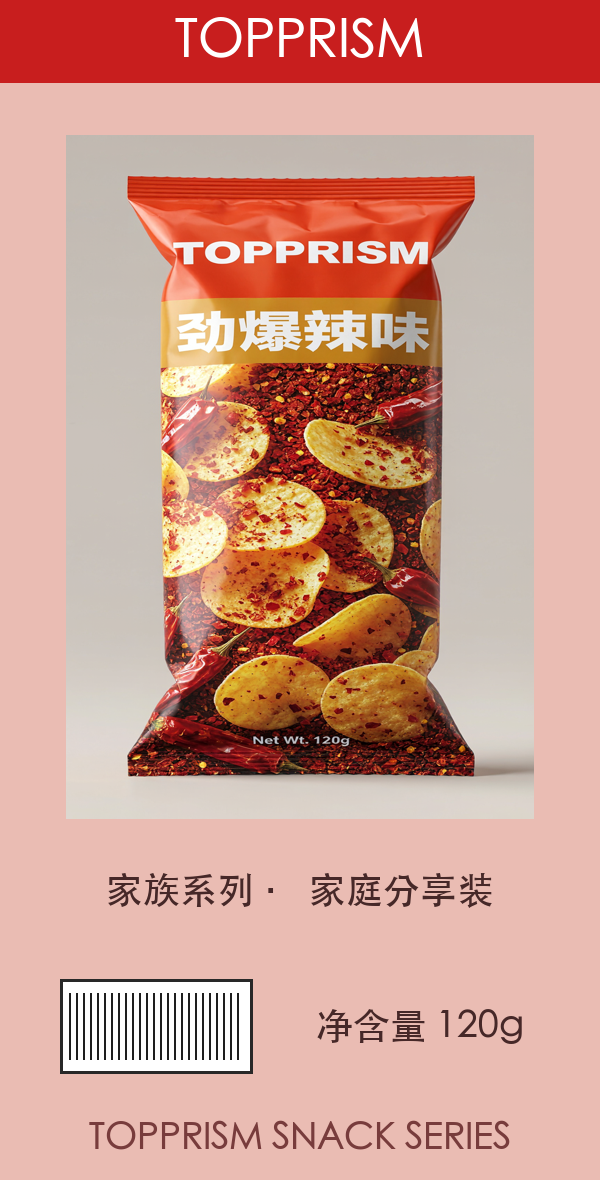
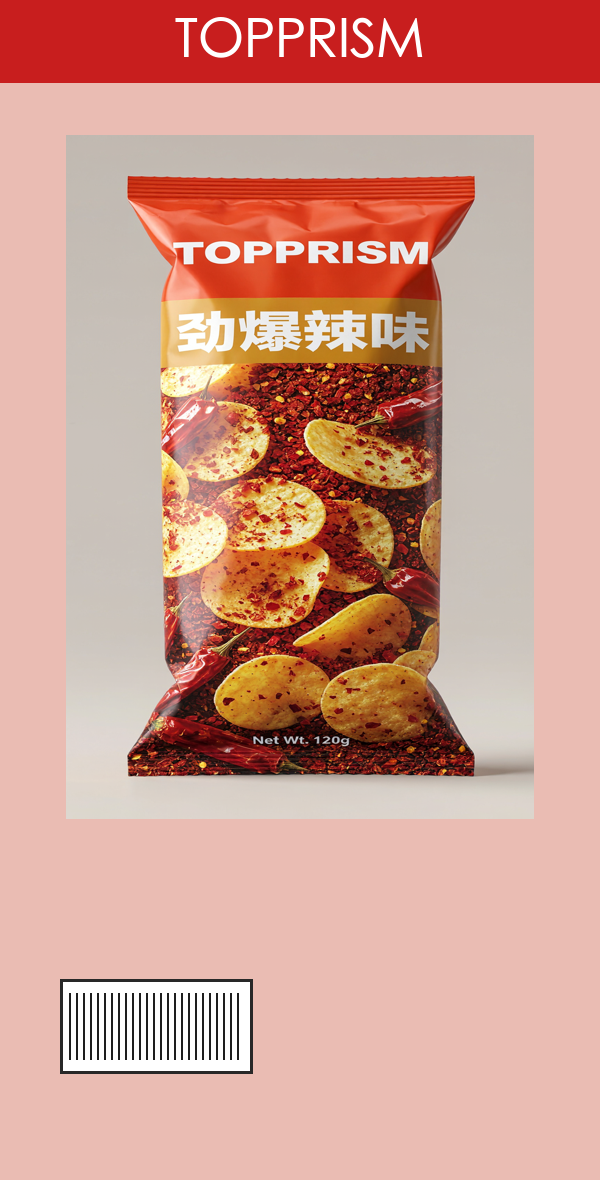
粉盒设计用户裁决简化: 只留TOPPRISM红顶带+主设计窗, 砍副标/条码/净含量/英文行/V49边缘压痕 — 拍摄友好优先于评审语义加分; V49未投审即弃

diff --git a/scripts/build_hxl_shelf.py b/scripts/build_hxl_shelf.py
@@ -1027,7 +1027,7 @@ def main():
                         #     → 二排露头形成可信前后排遮挡 (几何探针已证盒底坐板 7.5mm)
                         y_box = y_bag + (0.03 if r_i == 1 else 0.0)
                         h_box = 0.19 * (0.88 if r_i == 1 else 1.0)
-                        # V46: 盒装语义次级信息 (二十四审 P0) — 主设计窗+顶部系列带+条码/净含量
+                        # 盒面设计 (用户裁决简化版): 软粉底+TOPPRISM红顶带+主设计窗, 无次级信息 (拍摄友好)
                         bfp = None
                         if dpath0.exists():
                             _ck = str(dpath0)
@@ -1046,14 +1046,12 @@ def main():
                                 fbot = _load_font_cn(int(H2 * 0.032))
                                 d3.rectangle([0, 0, W2, int(H2 * 0.07)], fill=(200, 30, 30))
                                 d3.text((W2 // 2, int(H2 * 0.035)), "TOPPRISM", font=ftop, fill=(255, 255, 255), anchor="mm")
-                                d3.text((W2 // 2, int(H2 * 0.755)), "家族系列 · 家庭分享装", font=fbot, fill=(70, 40, 40), anchor="mm")
                                 d3.rectangle([int(W2 * 0.10), int(H2 * 0.83), int(W2 * 0.42), int(H2 * 0.91)], fill=(255, 255, 255), outline=(40, 40, 40), width=3)
                                 _bx = int(W2 * 0.115)
                                 while _bx < int(W2 * 0.405):
                                     d3.line([(_bx, int(H2 * 0.842)), (_bx, int(H2 * 0.898))], fill=(30, 30, 30), width=2)
                                     _bx += 7
-                                d3.text((int(W2 * 0.70), int(H2 * 0.87)), "净含量 120g", font=fbot, fill=(70, 40, 40), anchor="mm")
-                                d3.text((W2 // 2, int(H2 * 0.965)), "TOPPRISM SNACK SERIES", font=fbot, fill=(120, 60, 60), anchor="mm")
+
                                 bfp = DESIGN_DIR / f"boxfront_{Path(dpath0).stem}.png"
                                 comp.save(bfp)
                                 BOX_FRONT_CACHE[_ck] = bfp
